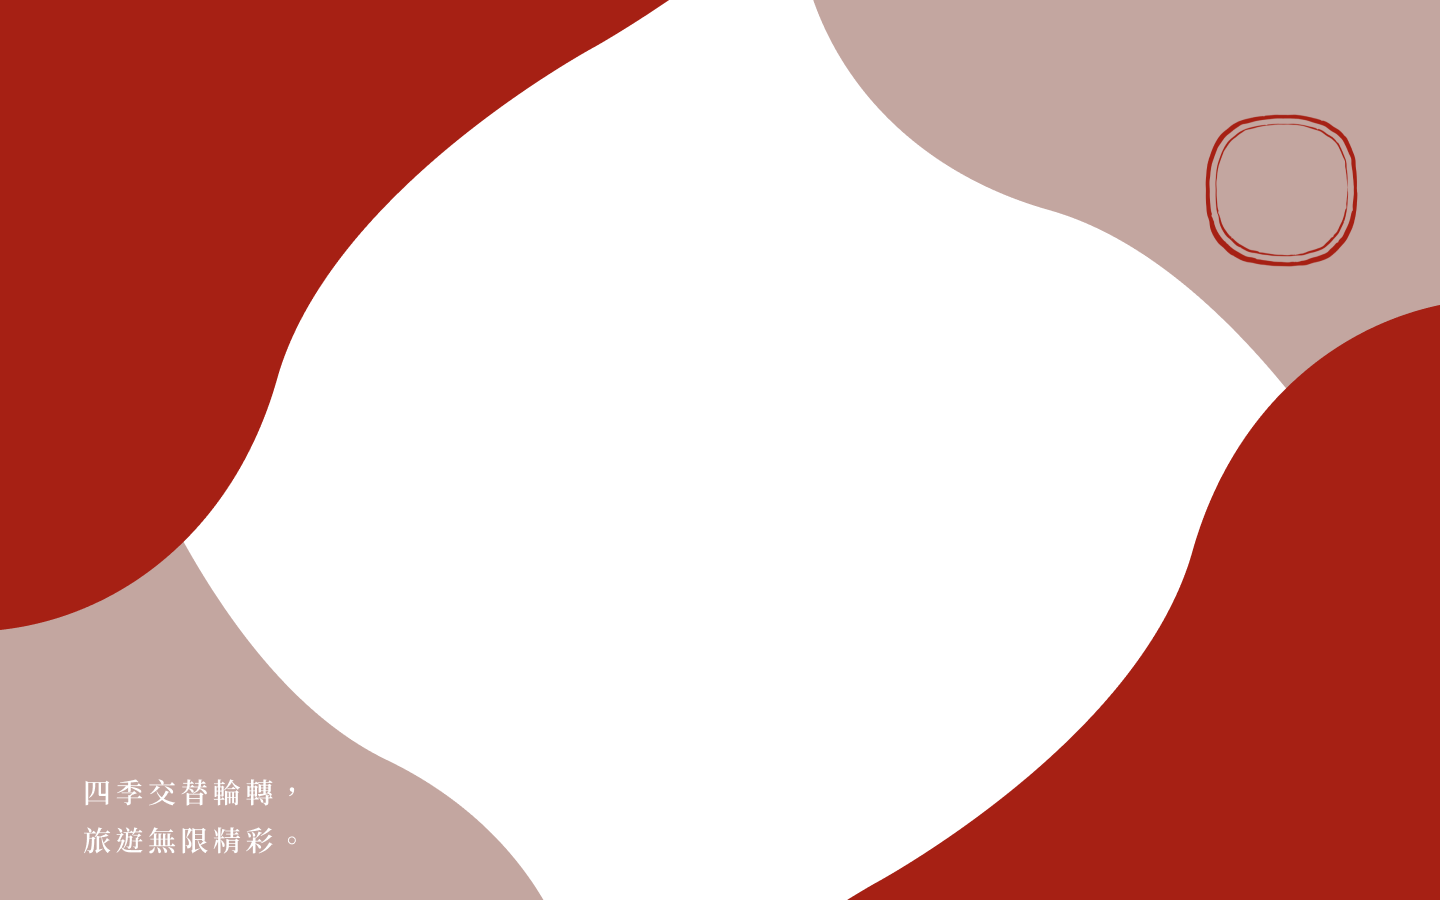
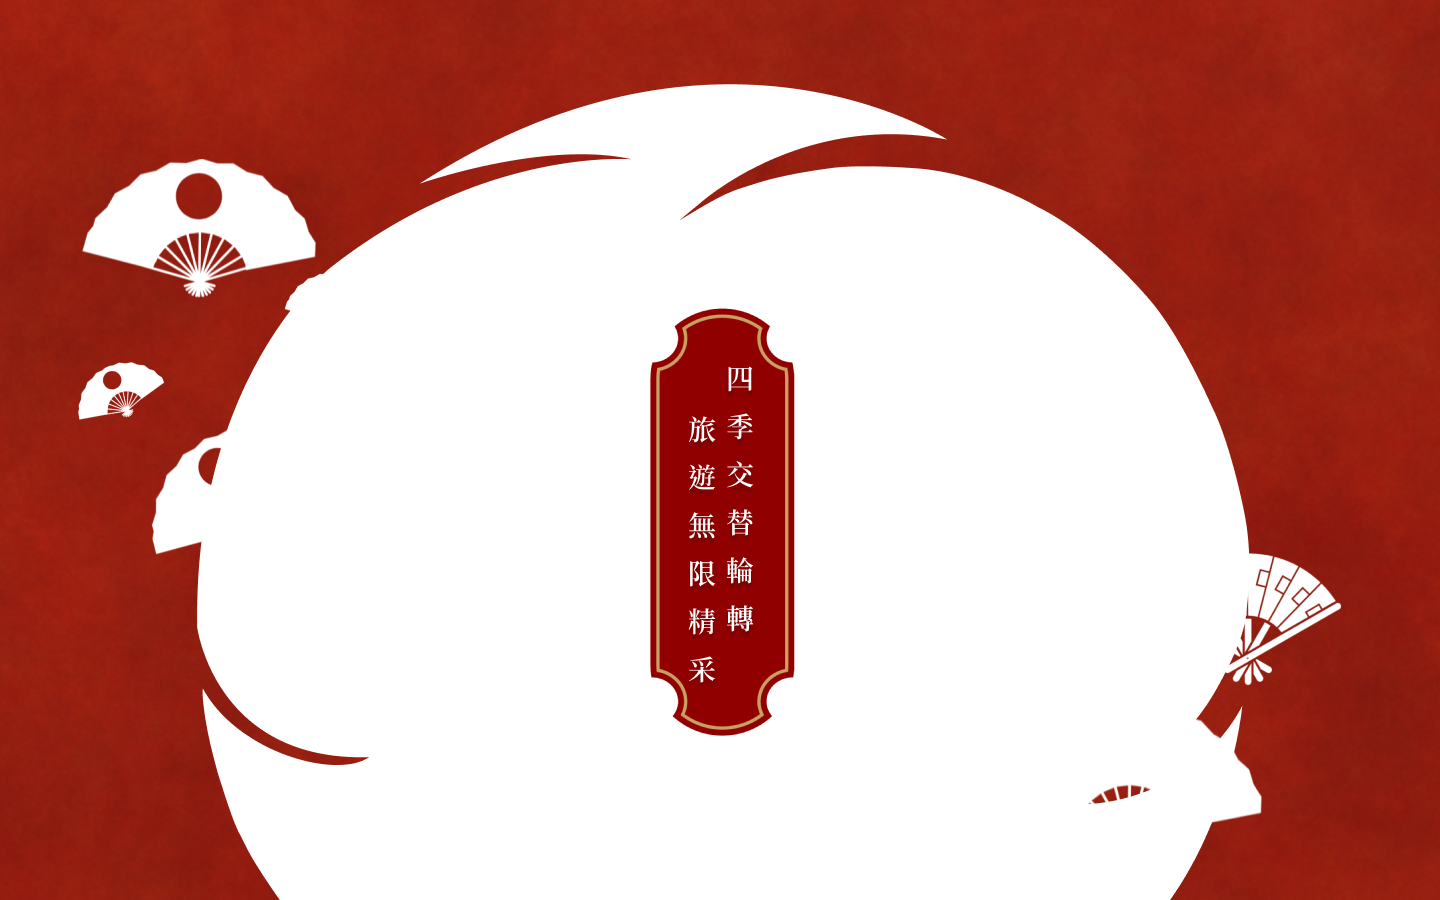
20240813

diff --git a/index.html b/index.html
@@ -7,6 +7,7 @@
     <meta name="viewport" content="width=device-width, initial-scale=1.0">
     <title>關西旅遊網</title>
     <link rel="icon" href="./favicon.ico" type="image/x-icon">
+    <link rel="stylesheet" href="carousel.css">
     <link rel="stylesheet" href="style.css">
 </head>
 
@@ -22,8 +23,8 @@
                 <li><a href="">聯絡我們</a></li>
             </ul>
             <ul class="icon">
-                <li><a class="icon-shoppingcar" href=""><img src="./images/shoppingcar.png" alt="會員"></a></li>
-                <li><a class="icon-member" href=""><img src="./images/User.png" alt="購物車"></a></li>
+                <li><a class="icon-shoppingcar" href=""><img src="./images/icon/shoppingcar.png" alt="會員"></a></li>
+                <li><a class="icon-member" href=""><img src="./images/icon/User.png" alt="購物車"></a></li>
             </ul>
         </nav>
     </header>
@@ -31,10 +32,22 @@
     <main>
 
         <section id="container-banner">
-            <img src="./images/topbar-background.png" alt="park">
-            <div class="content">
-                <h2></h2>
-                <h3></h3>
+            <img src="./images/topbar-background.png" alt="banner">
+            <div class="slide">
+                <ul class="list">
+                    <li class="item">
+                    </li>
+                    <li class="item">
+                    </li>
+                    <li class="item">
+                    </li>
+                    <!-- 新增重播 -->
+                    <li class="item">
+                    </li>
+                </ul>
+            </div>
+            <div class="slide-text">
+                <figure><img src="./images/秋.png" alt=""></figure>
             </div>
         </section>
 
@@ -44,7 +57,9 @@
             </header>
             <div class="more-info">
                 <a href="">
-                    <button>了解行程</button>
+                    <div class="layout-button">
+                        <button>了解行程</button>
+                    </div>
                 </a>
             </div>
             <div class="box-list">
@@ -83,11 +98,18 @@
                 <h2>自由規劃</h2>
             </header>
             <div class="item">
-                <figure><img src="./images/free.png" alt=""></figure>
+                <figure><img src="./images/free/freecompress-pexels-ruiz-2450697.jpg" alt=""></figure>
+                <figure><img src="./images/free/freecompress-pexels-balazsimon-16226405.jpg" alt=""></figure>
+                <figure><img src="./images/free/freecompress-pexels-eko-cahyono-102048560-9831406.jpg" alt=""></figure>
+                <figure><img src="./images/free/tianshu-liu-SBK40fdKbAg-unsplash.jpg" alt=""></figure>
+                <figure><img src="./images/free/freecompress-pexels-victor-3770955-5589991.jpg" alt=""></figure>
             </div>
             <div class="more-info">
                 <a href="">
-                    <button>查看更多</button>
+                    <div class="layout-button">
+                        <button>查看更多</button>
+                    </div>
+
                 </a>
             </div>
         </section>
@@ -128,7 +150,7 @@
             <nav class="navigation">
                 <ul class="menu-list">
                     <li class="menu">
-                        關西旅遊旅行社有限公司
+                        <h2>關西旅遊旅行社有限公司</h2>
                         <ul class="submenu">
                             <li>甲種旅遊業 交觀甲字第90001號</li>
                             <li>品保甲北 3000 號</li>
@@ -137,7 +159,7 @@
                         </ul>
                     </li>
                     <li class="menu">
-                        聯絡資訊
+                        <h2>聯絡資訊</h2>
                         <ul class="submenu">
                             <li>電話:02-3322-2777</li>
                             <li>傳真:02-3322-2778</li>
@@ -146,7 +168,7 @@
                         </ul>
                     </li>
                     <li class="menu">
-                        服務
+                        <h2>服務</h2>
                         <ul class="submenu">
                             <li><a href="#">主題行程</a></li>
                             <li><a href="#">自由規劃</a></li>
@@ -155,13 +177,13 @@
                         </ul>
                     </li>
                     <li class="menu">
-                        Follow us
-                        <ul class="submenu">
+                        <h2>Floow us</h2>
+                        <ul class="submenu-icon">
                             <li>
-                                <a href=""><img src="" alt=""></a>
+                                <a href=""><img src="./images/icon/line.png" alt=""></a>
                             </li>
                             <li>
-                                <a href=""><img src="" alt=""></a>
+                                <a href=""><img src="./images/icon/fb.png" alt=""></a>
                             </li>
                         </ul>
                     </li>

diff --git a/style.css b/style.css
@@ -25,7 +25,8 @@ footer, header, hgroup, menu, nav, section {
 	display: block;
 }
 body {
-	line-height: 1;
+	line-height: 1.5;
+	font-family:"蘋方-繁", "PingFang TC", "黑體-繁", "Heiti TC", "微軟正黑體", "Microsoft JhengHei", "Noto Sans TC", sans-serif;
 }
 ol, ul {
 	list-style: none;
@@ -154,8 +155,8 @@ button:hover{
 
 #container-banner img{
 	width: 100%;
-	height: auto;
-	opacity: 0.9;
+	height: 100%;
+	object-fit: cover;
 }
 
 #container-banner .content{
@@ -167,10 +168,18 @@ button:hover{
 	font-size: 48px;
 }
 
+#container-banner .slide-text figure{
+	position: absolute;
+	top: 22%;
+	right: 10%;
+}
+
+
 /* container-topics */
-#container-topics .more-info {
-	padding: 0 0 20px 0;
-	
+#container-topics .layout-button
+{
+	padding-left: 1300px;
+	padding-bottom: 34px;
 }
 .box-list{
 	display: flex;
@@ -210,15 +219,47 @@ button:hover{
 	background-color: #F7F1F0;
 }
 
-/* container-partner */
-.icon-list{
+#container-free .title{
+	padding-bottom: 72px;
+}
+
+#container-free .item{
 	display: flex;
 	justify-content: center;
 	align-items: center;
 }
 
+#container-free figure{
+	height: 30vh;
+	width: 15vw;
+}
+
+#container-free figure img{
+	flex: 1;
+    box-shadow: 0 5px 8px #898989;
+    border-radius: 20px;
+	height: 100%;
+	width: 100%;
+	object-fit:cover;
+}
+
+#container-free .more-info .layout-button{
+	padding-top: 72px;
+}
+
+/* container-partner */
+#container-partner .title{
+	padding-bottom: 72px;
+}
+.icon-list{
+	display: flex;
+	justify-content: center;
+	align-items: center;
+	padding-bottom: 50px;
+}
+
 .icon-list .icon{
-	padding: 0 20px;
+	padding: 0 35px;
 }
 
 #container-free .more-info {
@@ -227,12 +268,16 @@ button:hover{
 /* container-footer */
 footer {
 	background-color: #A62014;
+	color: white;
+	
 }
 
 footer div{
 	display: flex;
-	justify-content: space-between;
-	padding: 20px 50px 30px 50px;
+	justify-content: center;
+	gap: 450px;
+	/* max-width: 1650px;
+	width: 100%; */
 }
 
 footer nav{
@@ -245,7 +290,12 @@ footer .menu-list{
 }
 
 footer .menu{
-	padding: 10px 20px;
+	padding: 10px 50px;
+	opacity: 0.9;
+}
+
+footer .navigation h2{
+	border-bottom: solid 1px white  ;
 }
 
 footer .menu .submenu{
@@ -253,11 +303,18 @@ footer .menu .submenu{
 }
 
 footer .menu .submenu a{
-	color: black;
+	color: white;
+}
+
+footer .submenu-icon{
+	display: flex;
+	justify-content: space-between;
+	padding-top: 10px;
 }
 
 footer .small{
 	margin: 0;
 	padding: 0;
 	justify-content: center;
+	opacity: 0.9;
 }

diff --git a/carousel.css b/carousel.css
@@ -1,0 +1,76 @@
+* {
+    margin: 0;
+    padding: 0;
+    list-style: none;
+    box-sizing: border-box;
+}
+
+
+:root {
+    --width: 150vw;
+    --height: 150vh;
+}
+
+#container-banner .slide {
+    position:absolute;
+    width: var(--width);
+    height: var(--height);
+    max-width: 100%;
+    overflow: hidden;
+}
+
+li.item:nth-child(1) {
+    background-image: url(./images/banner/spring.jpg);
+}
+
+li.item:nth-child(2) {
+    background-image: url(./images/banner/summer.jpg);
+}
+
+li.item:nth-child(3) {
+    background-image: url(./images/banner/autumn.jpg);
+}
+
+li.item:nth-child(4) {
+    background-image: url(./images/banner/winnter.jpg);
+}
+
+li.item {
+    flex: 1;
+    width: var(--width);
+    height: inherit;
+    text-align: center;
+    float: left;
+}
+
+ul.list {
+    /* 修改為新增html第一張重覆後+1 */
+    width: calc(var(--width) * 4);
+
+    height: inherit;
+
+    /* 定位 */
+    position: relative;
+    z-index: -1;
+
+    /* 延遲1s */
+    animation: move 15s ease 1s infinite;
+}
+
+@keyframes move {
+    0% {
+        transform: translate(calc(0 * var(--width)));
+    }
+
+    33% {
+        transform: translate(calc(-1 * var(--width)));
+    }
+
+    66% {
+        transform: translate(calc(-2 * var(--width)));
+    }
+
+    100% {
+        transform: translate(calc(-3 * var(--width)));
+    }
+}
